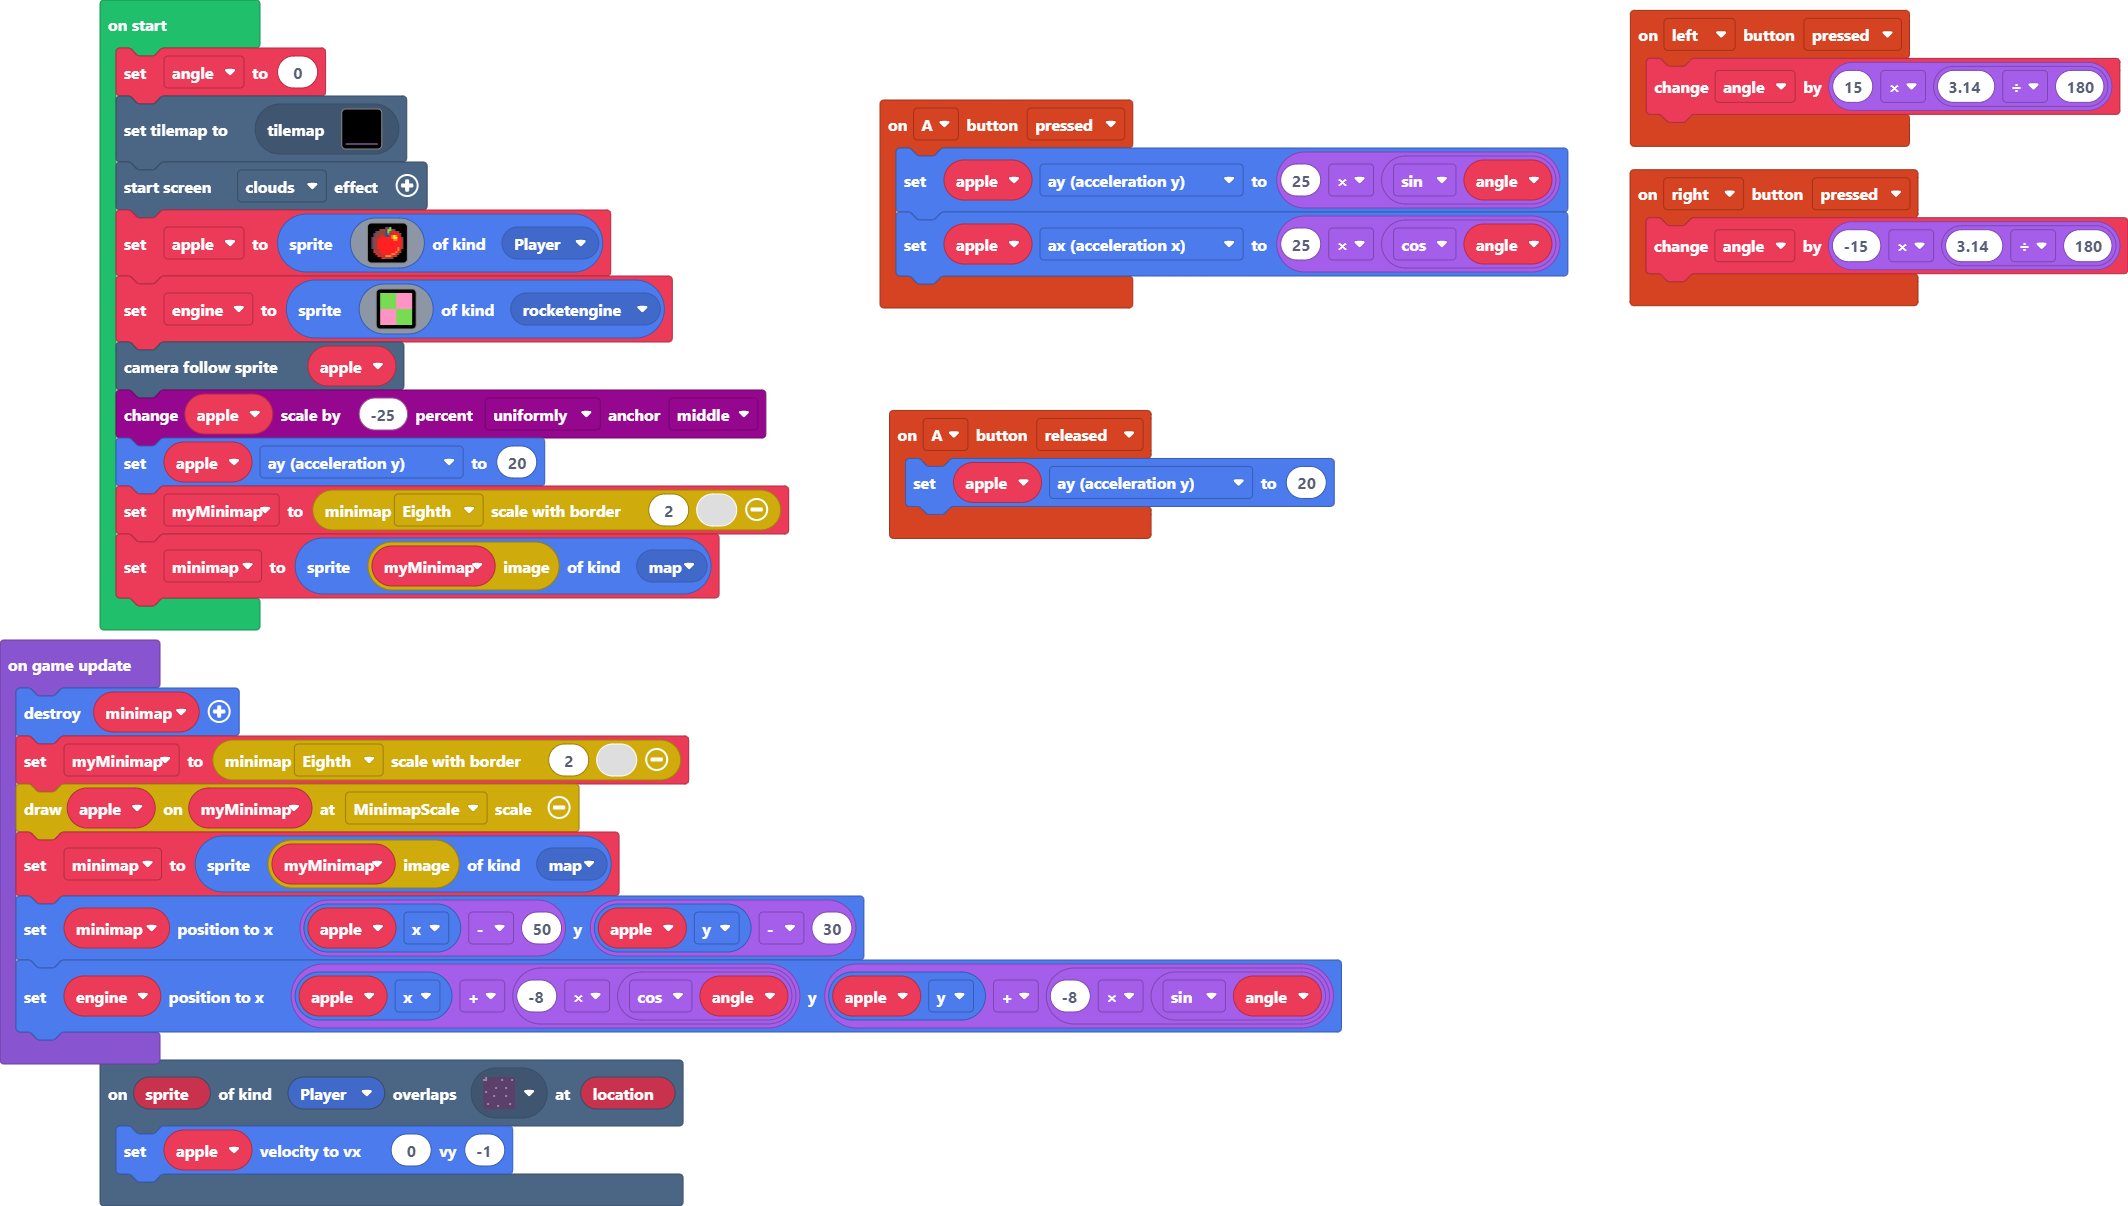
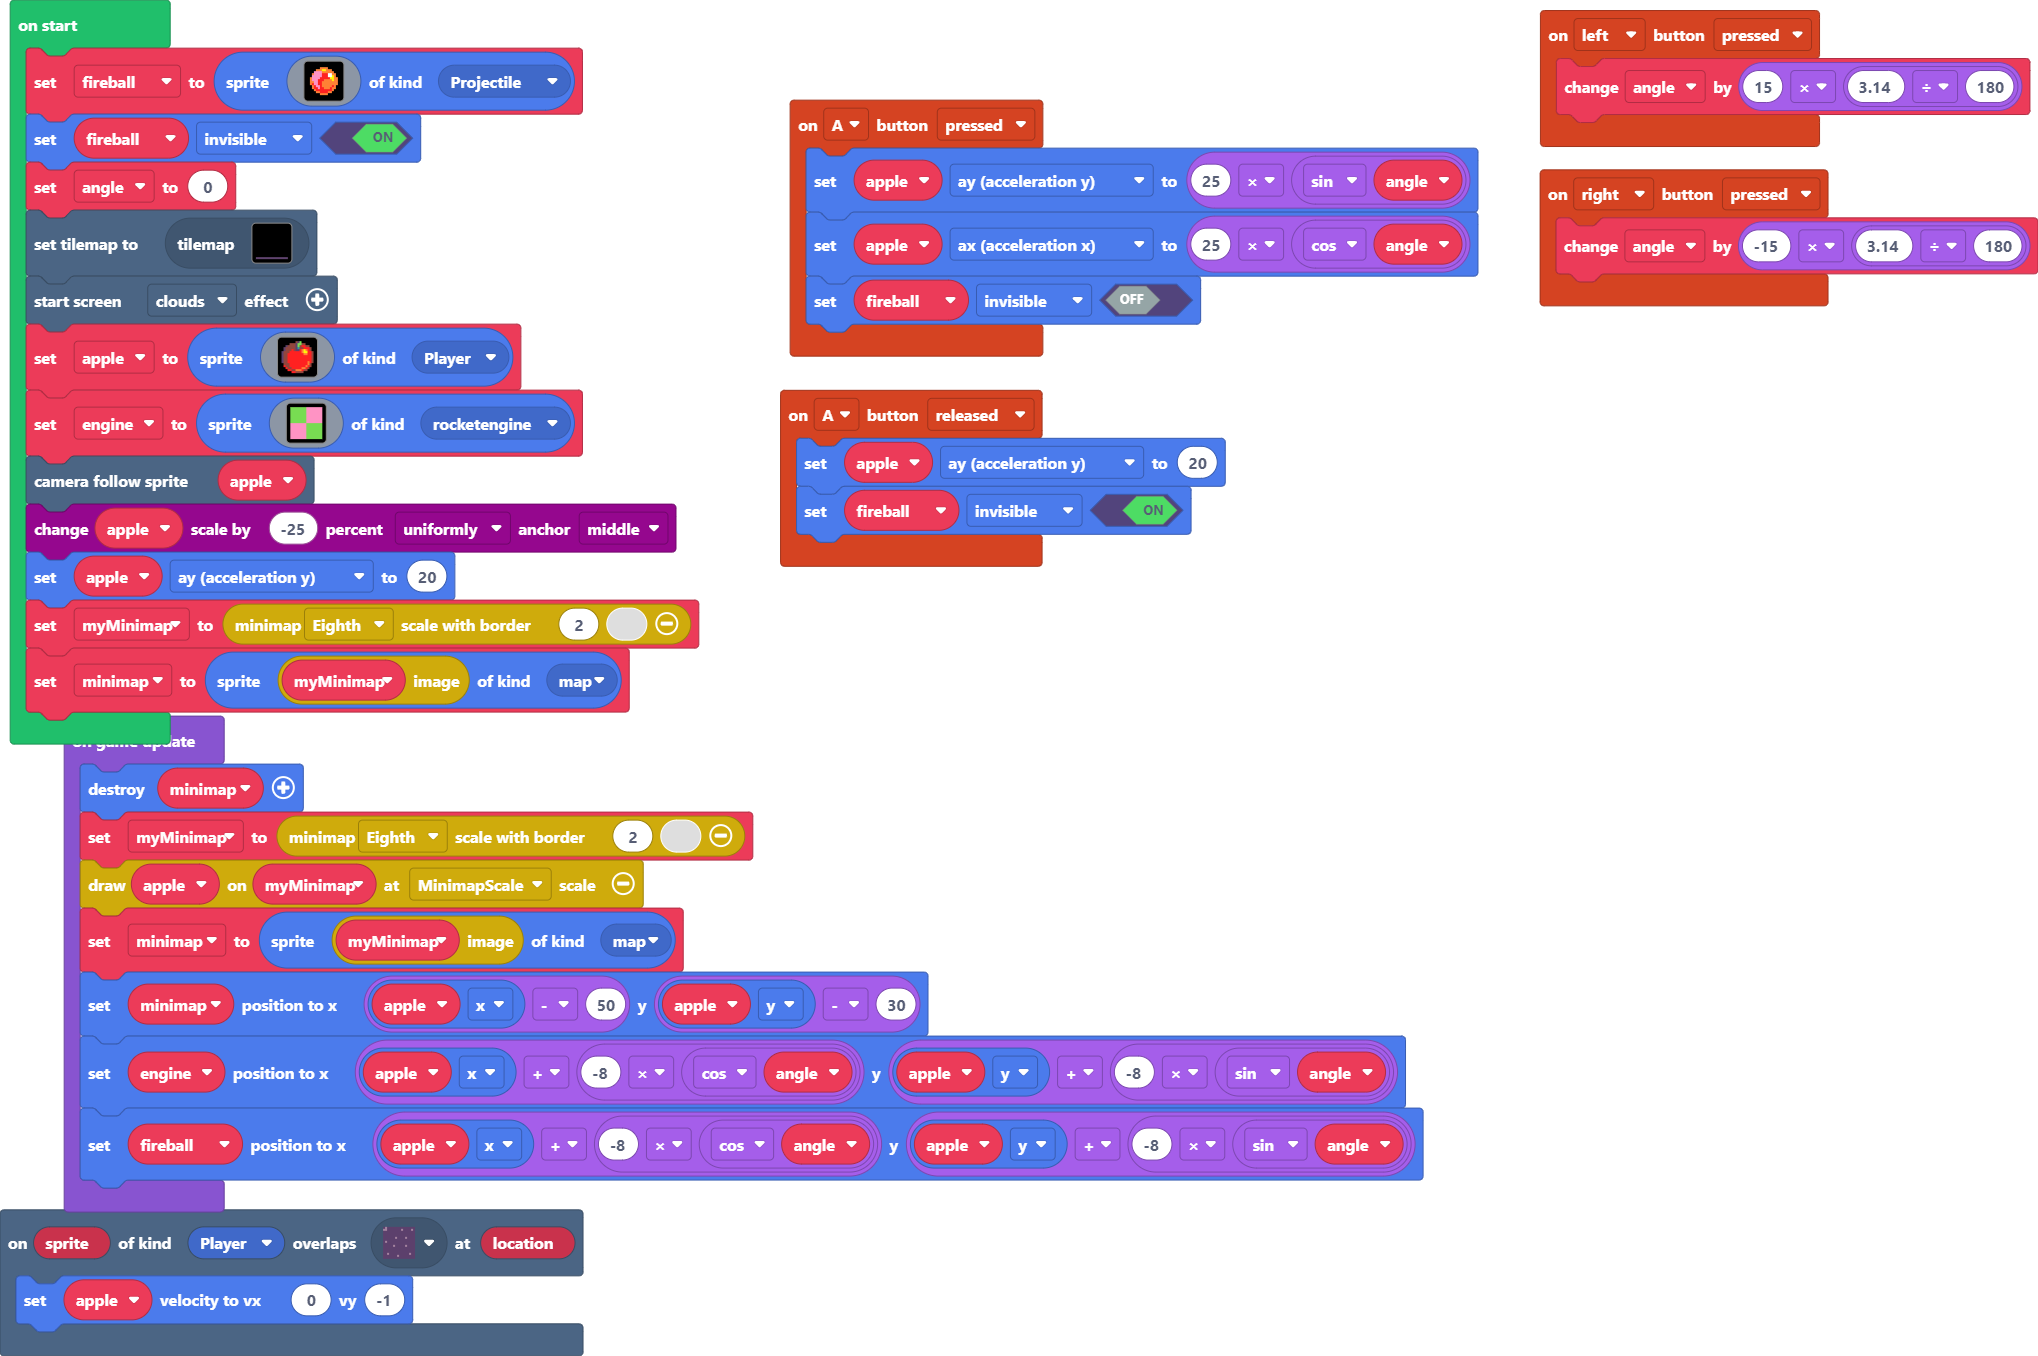
fireball finished

diff --git a/main.ts b/main.ts
@@ -5,6 +5,7 @@ namespace SpriteKind {
 controller.A.onEvent(ControllerButtonEvent.Pressed, function () {
     apple.ay = 25 * Math.sin(angle)
     apple.ax = 25 * Math.cos(angle)
+    fireball.setFlag(SpriteFlag.Invisible, false)
 })
 controller.left.onEvent(ControllerButtonEvent.Pressed, function () {
     angle += 15 * (3.14 / 180)
@@ -14,12 +15,33 @@ controller.right.onEvent(ControllerButtonEvent.Pressed, function () {
 })
 controller.A.onEvent(ControllerButtonEvent.Released, function () {
     apple.ay = 20
+    fireball.setFlag(SpriteFlag.Invisible, true)
 })
 scene.onOverlapTile(SpriteKind.Player, sprites.dungeon.darkGroundSouthEast1, function (sprite, location) {
     apple.setVelocity(0, -1)
 })
 let apple: Sprite = null
 let angle = 0
+let fireball: Sprite = null
+fireball = sprites.create(img`
+    . . . . . . . . . . . . . . . . 
+    . . . . . . 4 4 4 4 . . . . . . 
+    . . . . 4 4 4 5 5 4 4 4 . . . . 
+    . . . 3 3 3 3 4 4 4 4 4 4 . . . 
+    . . 4 3 3 3 3 2 2 2 1 1 4 4 . . 
+    . . 3 3 3 3 3 2 2 2 1 1 5 4 . . 
+    . 4 3 3 3 3 2 2 2 2 2 5 5 4 4 . 
+    . 4 3 3 3 2 2 2 4 4 4 4 5 4 4 . 
+    . 4 4 3 3 2 2 4 4 4 4 4 4 4 4 . 
+    . 4 2 3 3 2 2 4 4 4 4 4 4 4 4 . 
+    . . 4 2 3 3 2 4 4 4 4 4 2 4 . . 
+    . . 4 2 2 3 2 2 4 4 4 2 4 4 . . 
+    . . . 4 2 2 2 2 2 2 2 2 4 . . . 
+    . . . . 4 4 2 2 2 2 4 4 . . . . 
+    . . . . . . 4 4 4 4 . . . . . . 
+    . . . . . . . . . . . . . . . . 
+    `, SpriteKind.Projectile)
+fireball.setFlag(SpriteFlag.Invisible, true)
 angle = 0
 tiles.setCurrentTilemap(tilemap`level1`)
 effects.clouds.startScreenEffect()
@@ -57,4 +79,5 @@ game.onUpdate(function () {
     minimap2 = sprites.create(minimap.getImage(myMinimap), SpriteKind.map)
     minimap2.setPosition(apple.x - 50, apple.y - 30)
     engine.setPosition(apple.x + -8 * Math.cos(angle), apple.y + -8 * Math.sin(angle))
+    fireball.setPosition(apple.x + -8 * Math.cos(angle), apple.y + -8 * Math.sin(angle))
 })
